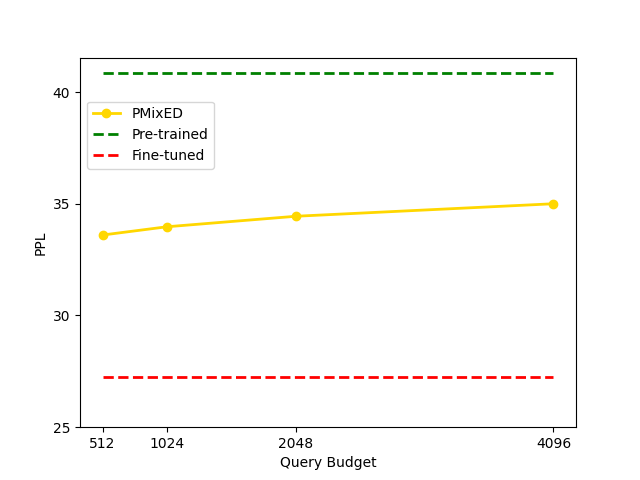
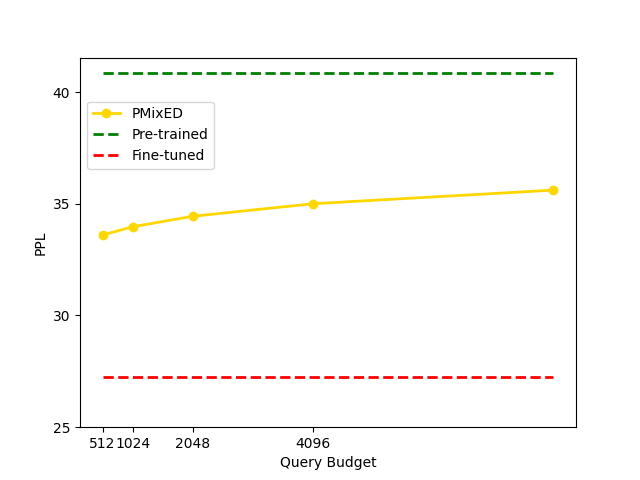
Updated hyperparameter search

diff --git a/hyperparameter_experiments.py b/hyperparameter_experiments.py
@@ -8,11 +8,11 @@ results_file = "results.csv"
 parameters = ["epsilon", 'num_ensemble', 'query_budget', 'alpha', 'p', 'ppl']
 
 epsilons = [2, 4, 6, 8, 10]
-num_ensembles = [32, 64, 80]
-query_budgets = [512, 1024, 2048, 4096]
-iters = [2**4, 2**3, 2**2, 2**1]
+num_ensembles = [16, 32, 64, 80, 100]
+query_budgets = [512, 1024, 2048, 4096, 8192]
+iters = [2**4, 2**3, 2**2, 2**1, 2**0]
 alphas = [3, 4, 5, 6]
-p_s = [0.02, 0.03, 0.05, 0.1]
+p_s = [0.02, 0.03, 0.05, 0.1, 0.25, 0.5]
 
 default_epsilon = 8
 default_query_budget = 1024 
@@ -57,7 +57,6 @@ with open(results_file, 'w') as f:
         default_alpha = math.ceil(4 * np.log(1 / delta) / (3 * epsilon) + 1)
         results = get_results(epsilon, default_query_budget, default_alpha, default_num_ensembles, default_p, default_iters)
         w.writerow(results)
-
     default_alpha = 3
 
     for q_budget, iter in tqdm.tqdm(zip(query_budgets, iters), desc="Query Budget"):

diff --git a/gen_plts.py b/gen_plts.py
@@ -4,10 +4,10 @@ import pandas as pd
 import numpy as np
 
 eps_s, eps_e = 0, 5 
-qb_s, qb_e = 5, 9 
-ens_s, ens_e = 9, 12 
-alp_s, alp_e = 12, 16 
-p_s, p_e = 16, 20
+qb_s, qb_e = 5, 10 
+ens_s, ens_e = 10, 15 
+alp_s, alp_e = 15, 19 
+p_s, p_e = 19, 25
 
 pre_trained = 40.86
 fine_tuned = 27.25
@@ -63,7 +63,7 @@ plt.xlabel("Number of Ensembles")
 plt.yticks(yticks)
 #plt.xticks([8, 16, 32, 64])
 plt.ylabel("PPL")
-plt.legend(loc='upper left', bbox_to_anchor=(0, 0.9))
+plt.legend(loc='center left')#, bbox_to_anchor=(0, 0.9))
 plt.savefig('plts/ensemble.png')
 plt.clf()
 
